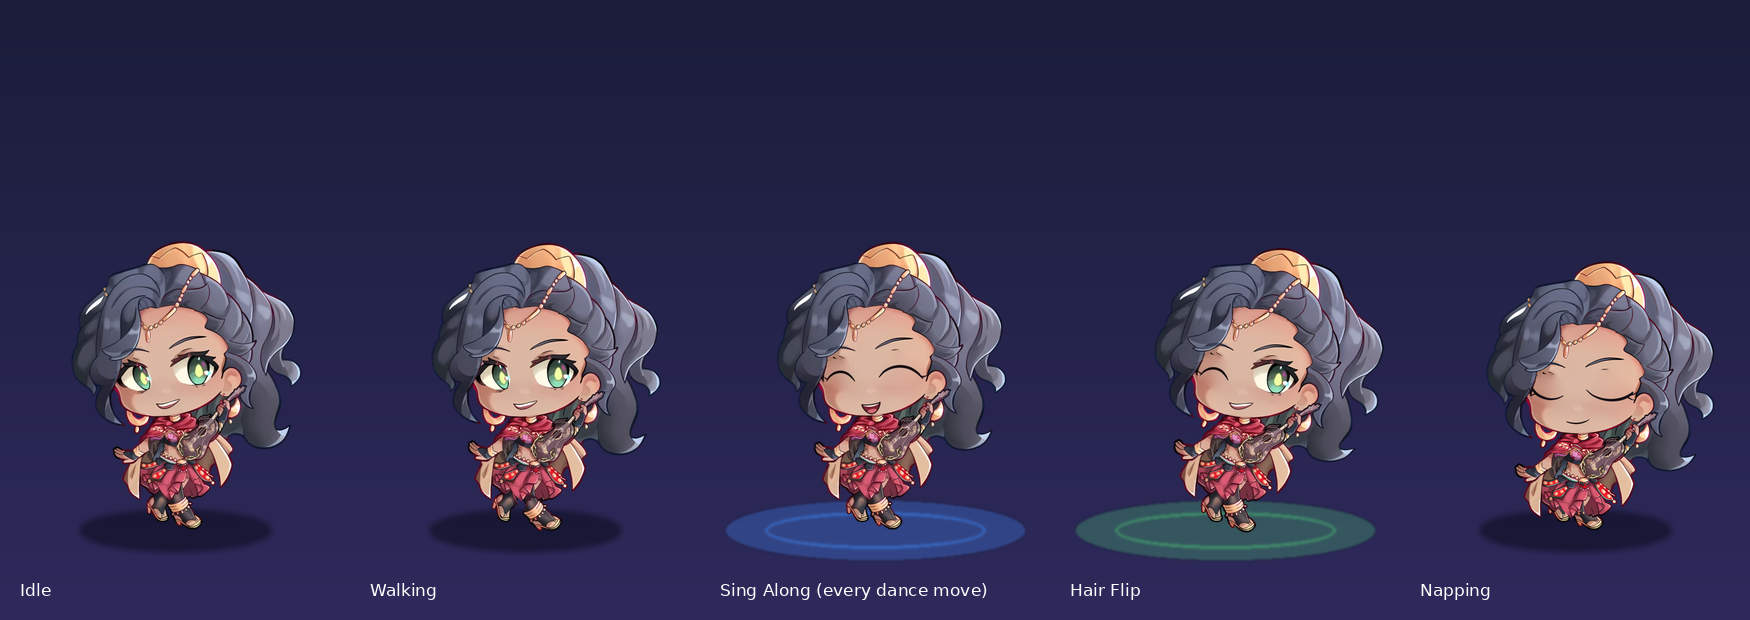
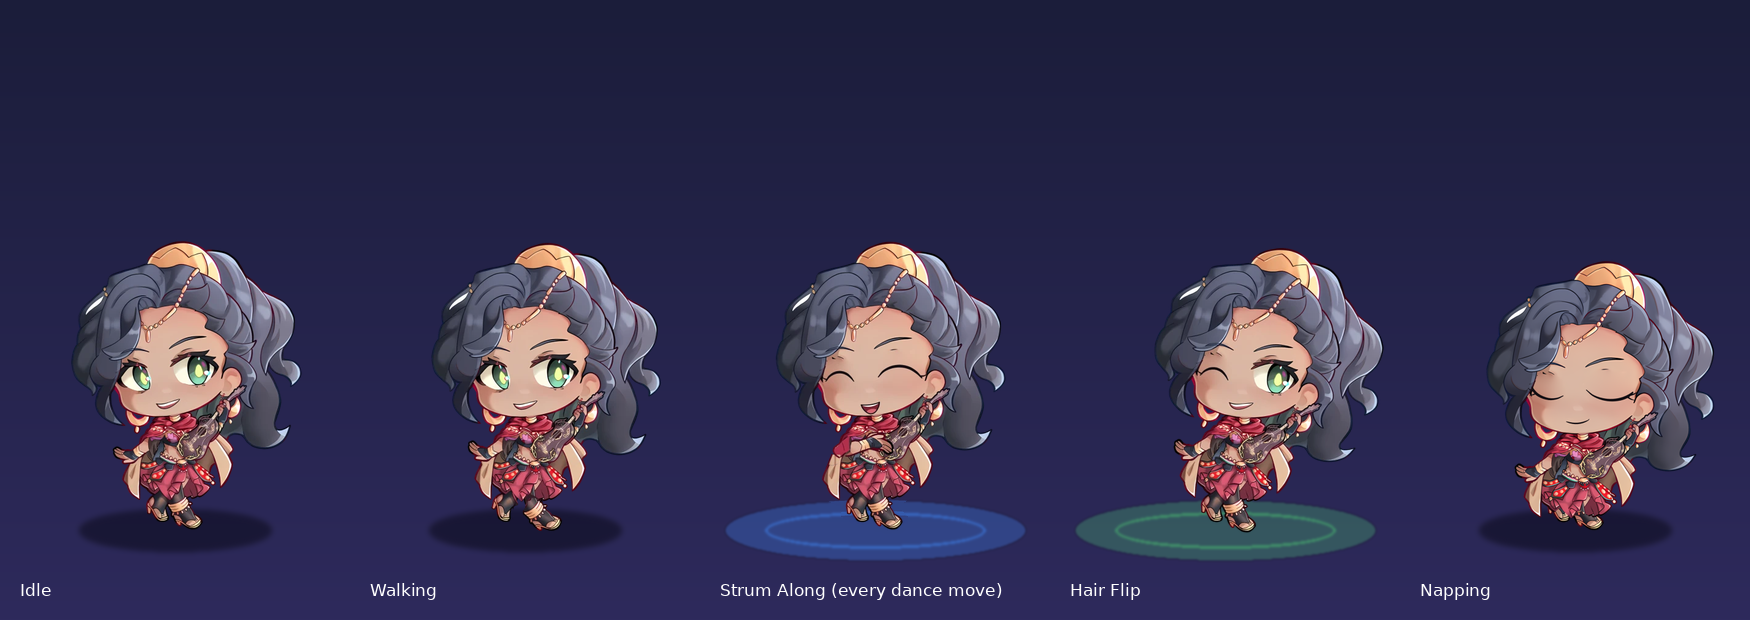
Have Lyra play her lute while she dances
During every built-in dance move, which is when the app sends up its music
notes, Lyra used to sing along with her open hand pumping. Now she plays:
that arm comes across her body, the fingers lie on the strings, and the hand
crosses them downwards on each beat and comes back up between beats, with
the wrist following a moment behind. The clip is listed as Strum Along in
place of Sing Along. In Serenade she plays too, one slow strum to a beat.

The drawing has her holding the lute by its neck with the other hand held
out, so the whole arm is cut out, its wrist part straightened, and swung
about the elbow until the forearm crosses her body. It gets outlines where
the drawing had the shawl's border and cloth beside it, and a flap of the
shawl hangs where the arm was, with the arm coming out from under it. Poses
take two new settings, strum and flick; without them the hand is held out
as drawn, so the other clips come out of the script exactly as before.

The README picture shows the new pose, and the pack's notes describe the
arm and the new settings.

Claude-Session: https://claude.ai/code/session_01SZe3gLRo3FbK4MeK8XdYU2

Changed region(s): [[0.4629, 0.3984, 0.5863, 0.7661], [0.4011, 0.9194, 0.5863, 0.9806]]

diff --git a/characters/lyra/_source/make_frames.py b/characters/lyra/_source/make_frames.py
@@ -17,6 +17,9 @@ The drawing is treated as a puppet with a few working parts:
   damped spring drives them from the body's own motion, so they lag and overshoot.
 - Hand. The open hand bends at the wrist to wave; the sash behind it is repainted so
   nothing shows through when it lifts.
+- Arm. To play the lute, the whole of that arm swings across her body until the fingers
+  lie on the strings, and a flap of her shawl hangs where the arm was. It strums by
+  swinging at the elbow and flicking at the wrist.
 - Legs. Each leg is its own layer behind the skirt, so the legs can swing to walk and
   kick, and tuck up under the skirt when she bends her knees or sits on her heels.
 - Waist. Swaying turns her head and shoulders and bends the torso smoothly down to her
@@ -113,6 +116,49 @@ BEND_FROM, BEND_TO = 2, 30
 # What the thumb hides: the top of the sash, and its outline on the left.
 SASH_UNDER = [(261, 840), (275, 796), (314, 796), (314, 840)]
 SASH_EDGE = ([(256, 846), (262, 832), (267, 818), (272, 806), (276, 796)], [5.5, 5.5, 5.5, 5.5, 5.5])
+
+# Playing the lute. The arm with the open hand does the strumming. It is cut out whole:
+# ARM outlines fingers, glove, thumb, cuff and the bare forearm up to her vest, and ELBOW is
+# the middle of its inner end. In the drawing the shawl's border runs along the top of the
+# arm and cloth along the bottom, so the arm has no outline of its own there; ARM_TOP,
+# ARM_BOTTOM and THUMB_EDGE are where it is given one.
+ARM = [(203, 765), (214, 760), (232, 763), (247, 771), (266, 774), (283, 775), (290, 771), (295, 766.5),
+       (300, 760.5), (305, 755.5), (310, 750), (315, 745), (320, 740.5), (324, 737.5), (328, 734), (333, 730.5),
+       (337, 729.5), (337.5, 740), (338.5, 755), (339.5, 768), (340, 778.5), (336, 782), (331, 785.5),
+       (326, 787.5), (321.5, 788.5), (316, 793.5), (310, 799.5), (305, 803.5), (303, 808), (302, 815),
+       (300, 822), (296, 829), (278, 834), (263, 831), (253, 832), (243, 832), (235, 824), (233, 815),
+       (224, 815), (207, 807), (197, 792), (196, 778)]
+ELBOW = (338.5, 755)
+ARM_TOP = [(247, 771), (266, 774), (283, 775), (290, 771), (295, 766.5), (300, 760.5), (310, 750), (320, 740.5),
+           (328, 734), (337, 729.5)]
+ARM_BOTTOM = [(296, 829), (300, 822), (302, 815), (303, 808), (305, 803.5), (310, 799.5), (316, 793.5),
+              (321.5, 788.5), (331, 785.5), (340, 778.5)]
+THUMB_EDGE = [(243, 832), (253, 832), (263, 831), (278, 834), (296, 829)]
+# Where the arm goes to play: the elbow at her side, the arm swung round it until the
+# forearm crosses her body, the wrist part straightened so the fingers reach the strings.
+# It is drawn a little larger there, being in front of her now. A strum swings the arm
+# STRUM_SWING degrees either way about the elbow and the wrist STRUM_FLICK degrees.
+STRUM_ELBOW = (338, 772)
+STRUM_TURN = -161.0
+STRUM_UNBEND = 22.0
+STRUM_SCALE = 1.15
+STRUM_SWING = 4.5
+STRUM_FLICK = 9.0
+# With the arm gone from her side, the shawl that lay along it hangs there in a flap. FLAP
+# is the forearm and cuff it takes the place of; SHAWL_TIP is the shawl's border beyond
+# that, along the glove and fingers, which goes; FLAP_END is the outline that closes the
+# flap and FLAP_FOLD a crease down it. OVER_ARM is the flap with the outlines round it,
+# which lie over the arm where it comes out from underneath.
+FLAP = [(283, 775), (290, 771), (295, 766.5), (300, 760.5), (305, 755.5), (310, 750), (315, 745), (320, 740.5),
+        (324, 737.5), (328, 734), (333, 730.5), (337, 729.5), (337.5, 740), (338.5, 755), (339.5, 768),
+        (340, 778.5), (336, 782), (331, 785.5), (326, 787.5), (321.5, 788.5), (316, 793.5), (310, 799.5),
+        (305, 803.5), (297, 800), (289, 792), (284, 783)]
+SHAWL_TIP = [(232, 790), (240, 778), (252, 770), (264, 765), (276, 765), (284, 767), (287, 779), (283, 778),
+             (266, 777), (247, 774), (240, 792)]
+FLAP_END = ([(284, 771), (281, 780), (284, 790), (292, 799), (303, 806)], [5, 5.5, 5.5, 5.5, 5])
+FLAP_FOLD = ([(312, 752), (318, 766), (322, 782)], [1.5, 3, 1.5])
+OVER_ARM = [(270, 760), (300, 742), (322, 722), (342, 722), (343.5, 760), (344, 784), (322, 800), (300, 815),
+            (278, 800)]
 
 # Legs. Each outline follows the skirt's hem where the leg goes under it and runs through
 # empty background elsewhere; LEG_SPLIT is the line between the two, down the gap that
@@ -464,6 +510,28 @@ class Rig:
         self.under = under * self.under_mask[..., None]      # shown where the hand was
         self.hand = self.base * self.hand_mask[..., None]
 
+        # The arm that strums, with the outlines it lacks, and what shows at her side when
+        # it has gone: the sash under where the hand was, and a flap of the shawl, in the
+        # shawl's own colours, where the forearm was.
+        def colour_of(box, wanted):
+            (bx0, by0), (bx1, by1) = to_canvas(box[0], box[1]), to_canvas(box[2], box[3])
+            px = rgb[by0:by1, bx0:bx1].reshape(-1, 4)
+            px = px[px[:, 3] > 0.95][:, :3]
+            return np.median(px[wanted(px)], axis=0)
+        cloth = colour_of((300, 690, 345, 728), lambda c: (c[:, 0] > 0.6) & (c[:, 1] < 0.4))
+        maroon = colour_of((286, 745, 330, 775), lambda c: (c[:, 0] > 0.25) & (c[:, 0] < 0.6) & (c[:, 1] < 0.15))
+        arm_mask = poly_mask(ARM, 0.7)
+        outline = np.maximum.reduce([stroke(ARM_TOP, [4.5] * len(ARM_TOP)), stroke(ARM_BOTTOM, [4.5] * len(ARM_BOTTOM)),
+                                     stroke(THUMB_EDGE, [4.0] * len(THUMB_EDGE))])
+        self.arm = paint(self.base * arm_mask[..., None], outline, maroon * 0.75)
+        self.arm_gone = np.clip(arm_mask + poly_mask(SHAWL_TIP, 0.7), 0, 1)
+        flap = poly_mask(FLAP, 0.7)
+        shaded = cloth * 0.82 + maroon * 0.18                   # it hangs in her shadow
+        self.arm_behind = np.dstack([np.broadcast_to(shaded, (H, W, 3)) * flap[..., None], flap])
+        self.arm_behind = self.under + self.arm_behind * (1 - self.under[..., 3:])
+        self.flap_ink = (np.maximum(stroke(*FLAP_END), stroke(*FLAP_FOLD) * 0.7), maroon)
+        self.over_arm = poly_mask(OVER_ARM, 0.7)
+
         # Legs: each layer is the drawn leg plus a plain stretch of stocking carrying on up
         # behind the skirt, so no gap opens at the hem when it swings. The layers reach a
         # couple of pixels past their outlines (under the skirt, and under each other), which
@@ -501,6 +569,11 @@ class Rig:
         if abs(lift) < 1e-3:
             return img
         out = self.under + img * (1 - self.under_mask[..., None])
+        moved = self.bend_wrist(self.hand, lift)
+        return moved + out * (1 - moved[..., 3:])
+
+    def bend_wrist(self, layer, lift):
+        """Bends a layer at the wrist: lift is degrees the fingertips rise, as drawn."""
         xx, yy = self.grid
         px, py = to_canvas(*WRIST)
         vx, vy = xx - px, yy - py
@@ -509,8 +582,24 @@ class Rig:
         c, s_ = np.cos(phi), np.sin(phi)
         mx = (px + vx * c + vy * s_).astype(np.float32)
         my = (py - vx * s_ + vy * c).astype(np.float32)
-        moved = cv2.remap(self.hand, mx, my, cv2.INTER_CUBIC, borderMode=cv2.BORDER_CONSTANT).clip(0, 1)
-        return moved + out * (1 - moved[..., 3:])
+        return cv2.remap(layer, mx, my, cv2.INTER_CUBIC, borderMode=cv2.BORDER_CONSTANT).clip(0, 1)
+
+    def strum_pose(self, img, strum, flick):
+        """Her arm across her body with the hand on the lute. strum: where the hand is on
+        its way across the strings, from -1 (above them) to 1 (below). flick: the same for
+        the wrist alone."""
+        body = img * (1 - self.arm_gone[..., None])
+        body = body + self.arm_behind * (1 - body[..., 3:])
+        body = paint(body, *self.flap_ink)
+        # Straightening the wrist lowers the fingertips as drawn; turned round to the lute,
+        # that raises them, so a flick downwards is a little less straightening.
+        arm = self.bend_wrist(self.arm, -(STRUM_UNBEND - STRUM_FLICK * flick))
+        ex, ey = to_canvas(*ELBOW)
+        arm = transform(arm, about(ex, ey, STRUM_TURN + STRUM_SWING * strum, STRUM_SCALE,
+                                   dx=STRUM_ELBOW[0] - ELBOW[0], dy=STRUM_ELBOW[1] - ELBOW[1]))
+        out = arm + body * (1 - arm[..., 3:])
+        over = body * self.over_arm[..., None]
+        return over + out * (1 - over[..., 3:])
 
     def hair_pose(self, img, hair):
         """hair: {"L": (dx, dy), "R": (dx, dy)}, how far each fall's tip moves."""
@@ -570,10 +659,11 @@ class Rig:
         x, y = px + (x - px) * c - (y - py) * s_, py + (x - px) * s_ + (y - py) * c
         return self.body_matrix(**body) @ np.array([x, y, 1.0])
 
-    def pose(self, eyes=("open", "open"), mouth="grin", hand=0.0, hair=None, sway=0.0, legs=(0.0, 0.0),
-             lift=(0.0, 0.0), crouch=0.0, lean=0.0, squash=0.0, dx=0.0, dy=0.0):
+    def pose(self, eyes=("open", "open"), mouth="grin", hand=0.0, strum=None, flick=0.0, hair=None, sway=0.0,
+             legs=(0.0, 0.0), lift=(0.0, 0.0), crouch=0.0, lean=0.0, squash=0.0, dx=0.0, dy=0.0):
         img = self.face.get(tuple(eyes), mouth)
-        img = self.hand_pose(img, hand)
+        # She either plays, with that arm across her body, or holds the hand out as drawn.
+        img = self.hand_pose(img, hand) if strum is None else self.strum_pose(img, strum, flick)
         img = self.legs_pose(img, legs, lift, crouch)
         if hair:
             img = self.hair_pose(img, hair)
@@ -754,10 +844,12 @@ def sit(rig):
     return f
 
 
-def happy_dance(rig):
+def strum_along(rig):
     """Shown during every built-in dance move, which adds its own bounces, leans and spins,
-    so her feet stay still here. Two beats at 120 BPM: she sings on one and grins on the
-    other, sways at the waist and pumps her hand, and her hair bounces along."""
+    so her feet stay still here. This is when the app sends up its music notes, so she plays
+    her lute. Two beats at 120 BPM: her hand crosses the strings downwards on each beat and
+    comes back up between them, she sings on one beat and grins on the other, sways at the
+    waist, and her hair bounces along."""
     period = 1.0
 
     def body(t):
@@ -765,16 +857,23 @@ def happy_dance(rig):
     # The hair also feels a bounce the clip does not draw, standing in for the app's.
     hair = Hair(rig, lambda t: dict(body(t), dy=-10 * abs(math.sin(2 * math.pi * t / period))), period=period)
 
+    def stroke_at(phase):
+        """Where the hand is, -1 above the strings to 1 below: it passes them going down as
+        each beat starts. A little quicker through the strings than a plain swing."""
+        swing = math.sin(2 * math.pi * phase)
+        return math.copysign(abs(swing) ** 0.8, swing)
+
     def at(t):
         beat = t / (period / 2)
+        # The wrist follows the arm a moment behind, which is what makes it a strum.
         return dict(eyes=HAPPY_EYES, mouth="sing" if int(beat) % 2 == 0 else "grin",
-                    hand=12 * math.sin(math.pi * (beat % 1)) ** 2, hair=hair.at(t), **body(t))
-    return frames_from(even(period, 12), at)
+                    strum=stroke_at(beat), flick=stroke_at(beat - 0.14), hair=hair.at(t), **body(t))
+    return frames_from(even(period, 16), at)
 
 
 def serenade(rig):
     """Four beats: a slow sway from the hips with her head following, eyes closed,
-    singing, sinking a little on each beat."""
+    singing, sinking a little on each beat, and one unhurried strum of the lute to each."""
     period = 2.0
 
     def body(t):
@@ -783,11 +882,16 @@ def serenade(rig):
         return dict(lean=4 * math.sin(p), sway=5 * math.sin(p - 0.6), dx=8 * math.sin(p), crouch=0.22 * (1 - dip))
     hair = Hair(rig, body, period=period)
 
+    def stroke_at(phase):
+        """Down across the strings in the first third of a beat, then slowly back up."""
+        phase %= 1
+        return -1 + 2 * (smooth_ramp(phase, 0.0, 0.3) - smooth_ramp(phase, 0.45, 0.55))
+
     def at(t):
         beat = int(t / 0.5)
         return dict(eyes=SHUT if beat < 3 else HAPPY_EYES, mouth="sing" if beat % 2 == 0 else "smile",
-                    hand=7 + 7 * math.sin(2 * math.pi * t / period + 0.6), hair=hair.at(t), **body(t))
-    return frames_from(even(period, 10), at)
+                    strum=stroke_at(t / 0.5), flick=stroke_at(t / 0.5 - 0.08), hair=hair.at(t), **body(t))
+    return frames_from(even(period, 12), at)
 
 
 def hair_flip(rig):
@@ -863,7 +967,7 @@ CLIPS = {
     "idle": ("idle.webp", None, idle),
     "walk": ("walk.webp", None, walk),
     "sit": ("sit.webp", None, sit),
-    "dance": ("dance.webp", "Sing Along", happy_dance),
+    "dance": ("dance.webp", "Strum Along", strum_along),
     "dance_serenade": ("dance_serenade.webp", "Serenade", serenade),
     "dance_hair_flip": ("dance_hair_flip.webp", "Hair Flip", hair_flip),
     "dance_wave": ("dance_wave.webp", "Wave Hello", wave_hello),

diff --git a/characters/lyra/_source/README.md b/characters/lyra/_source/README.md
@@ -58,6 +58,16 @@ times before it is recorded, so the loops are seamless.
 behind it shows; that part is painted in by carrying the sash's own colours upwards, so
 its folds and outline continue unbroken.
 
+**Arm.** In the drawing she holds the lute by its neck and her other hand is held out
+open, so to play it that whole arm has to move. It is cut out in one piece, from the
+fingertips to where the forearm goes under her vest, its wrist is straightened part of
+the way, and it is swung about the elbow until the forearm crosses her body and the
+fingers lie on the strings. It is drawn a little larger there, being in front of her
+now, and it is given outlines along its edges, which in the drawing were the shawl's
+border above it and cloth below. Where the arm was, the shawl that lay along it hangs in
+a flap, and the arm comes out from under that. A strum is a few degrees at the elbow with
+the wrist following a moment behind.
+
 **Legs.** Each leg is its own layer, cut along the skirt's hem and drawn behind the skirt,
 with a plain stretch of stocking carrying on up out of sight. So the legs can swing from
 under the skirt to walk and kick, and tuck up under it when she bends her knees, which is
@@ -76,21 +86,24 @@ feet are in each clip (`anchor`), so nothing jumps between clips.
 | `idle.webp` | Standing (the app adds the breathing). Blinks, a breeze through her hair, a tilt of the head, and now and then a wave. |
 | `walk.webp` | Wandering along the floor: one stride, with her legs stepping, a small bob and her hair bouncing. The app adds no motion of its own to a walk clip. |
 | `sit.webp` | Sitting on her heels with her skirt round her. Blinks, and a contented moment. |
-| `dance.webp` | During all 15 built-in dance moves, which add their own bounces, leans and spins: happy eyes, singing on one beat and grinning on the next, swaying at the waist, her hand pumping and her hair bouncing. Also listed as **Sing Along**. |
-| `dance_serenade.webp`, `dance_hair_flip.webp`, `dance_wave.webp` | Their own entries under **Dance move**: Serenade, Hair Flip and Wave Hello. Each is four beats at the default 120 BPM. Clip dances get no motion from the app, so the sways, knee bends and hops are drawn in. |
+| `dance.webp` | During all 15 built-in dance moves, which add their own bounces, leans and spins, and which is when the app sends up its music notes. She plays her lute: her hand crosses the strings downwards on each beat and comes back up between them. Happy eyes, singing on one beat and grinning on the next, swaying at the waist, her hair bouncing. Also listed as **Strum Along**. |
+| `dance_serenade.webp`, `dance_hair_flip.webp`, `dance_wave.webp` | Their own entries under **Dance move**: Serenade, Hair Flip and Wave Hello. Each is four beats at the default 120 BPM. Clip dances get no motion from the app, so the sways, knee bends and hops are drawn in. In Serenade she plays too, one slow strum to a beat. In the other two the hand is held out as drawn: it waves in Wave Hello and goes up with the hop in Hair Flip. |
 | `drag.webp` | Being carried, and falling: wide eyes, a little "o", legs kicking, her hand flapping and her hair fluttering. |
 | `sleep.png` | Napping on her heels, head lolling. The app adds the breathing and the Zs. |
 
 ## Changing things
 
 Each clip is a short function near the end of `make_frames.py` (`idle`, `walk`, `sit`,
-`happy_dance`, `serenade`, `hair_flip`, `wave_hello`, `dangle`, `sleep`) that returns a list
+`strum_along`, `serenade`, `hair_flip`, `wave_hello`, `dangle`, `sleep`) that returns a list
 of `(pose, milliseconds)`. A pose can set:
 
 - `eyes`: a pair, each `"open"`, `"closed"`, `"happy"`, `"wide"`, or a number from 0 to 1
   for an eye part way shut
 - `mouth`: `"grin"` (as drawn), `"sing"`, `"smile"` or `"o"`
 - `hand`: degrees the fingertips lift at the wrist (negative lowers them)
+- `strum`: set this and she plays, with that arm across her body. It is where the hand is
+  on its way across the strings, from -1 (above them) to 1 (below); `flick` is the same
+  for the wrist alone. Leave `strum` out and the hand is held out as drawn.
 - `hair`: how far the tip of each fall moves, `{"L": (dx, dy), "R": (dx, dy)}`. Clips
   usually get this from a `Hair` spring driven by the body's motion.
 - `sway`: degrees her head and shoulders tip, bending at the waist (positive is right)

diff --git a/README.md b/README.md
@@ -21,10 +21,11 @@ flop as it moves. How it was made, and how to change it, is in
 
 **Lyra**, a bard with a lute, is an image pack animated from a single drawing by
 @thaissingarts. She blinks, her long hair sways and swings after her when she moves, and
-now and then she waves. She walks on her own two feet, sits down on her heels, sings
-along to every dance move and has three dances of her own: Serenade, Hair Flip and Wave
-Hello. Pick her under **Character**, or start with `--character lyra`. How she was made
-is in [characters/lyra/_source](characters/lyra/_source/README.md).
+now and then she waves. She walks on her own two feet and sits down on her heels. When
+the music starts she plays her lute, strumming and singing along to every dance move,
+and she has three dances of her own: Serenade, Hair Flip and Wave Hello. Pick her under
+**Character**, or start with `--character lyra`. How she was made is in
+[characters/lyra/_source](characters/lyra/_source/README.md).
 
 ![Domo in five poses](docs/domo.png)
 

diff --git a/characters/README.md b/characters/README.md
@@ -67,7 +67,7 @@ the same with a picture of your own.
 
 `lyra` is the same idea for a drawing: its `_source` folder sharpens the drawing,
 takes it off a white background, and animates it with hair that swings on a spring, legs
-that walk, a hand that waves and a redrawn face.
+that walk, a hand that waves, an arm that strums her lute and a redrawn face.
 
 `domo` is a pack with no picture behind it at all: the script in its `_source` folder
 draws every frame. It is the one to copy if you would rather describe a character in
